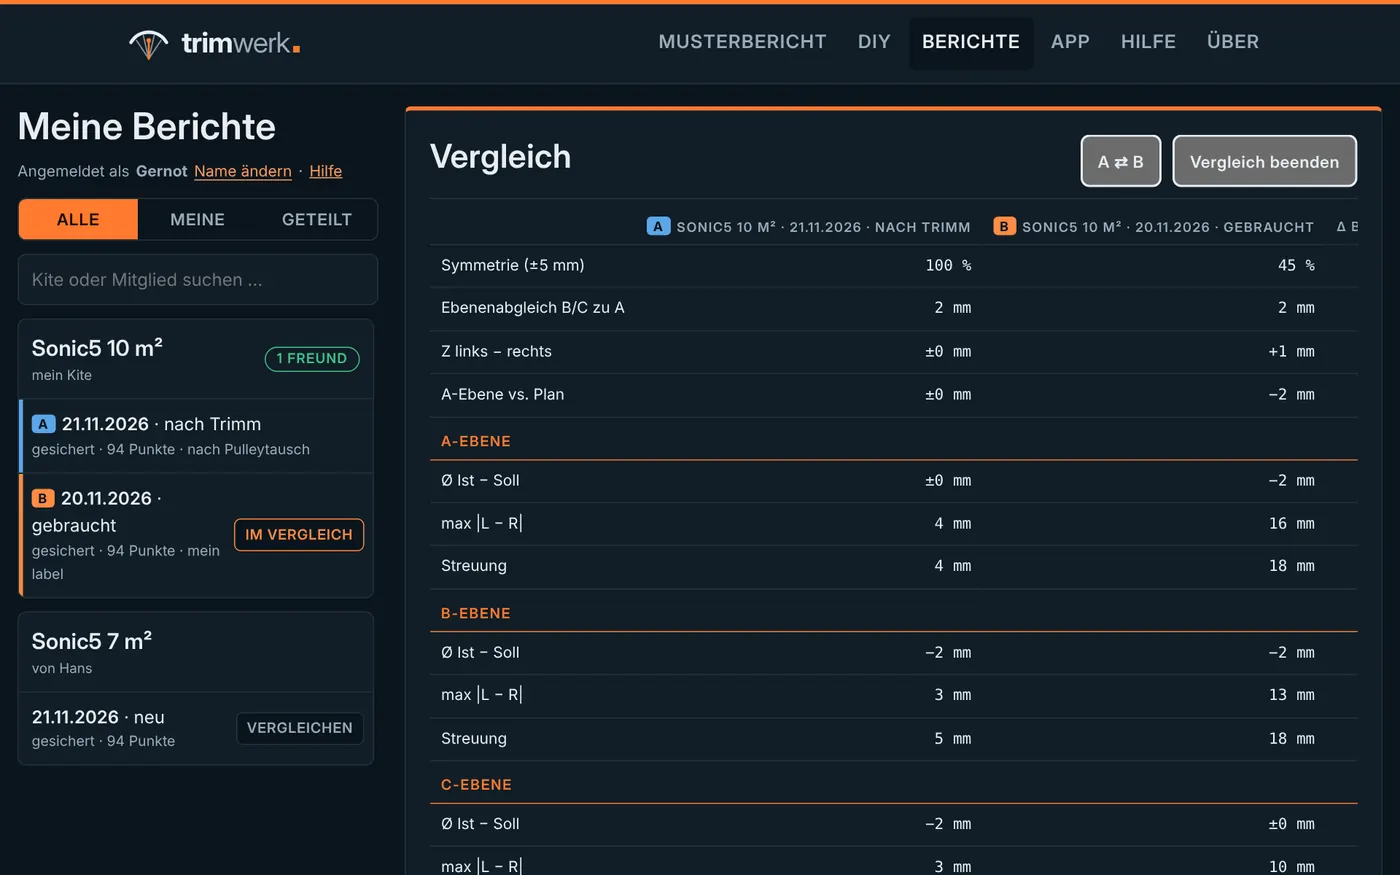
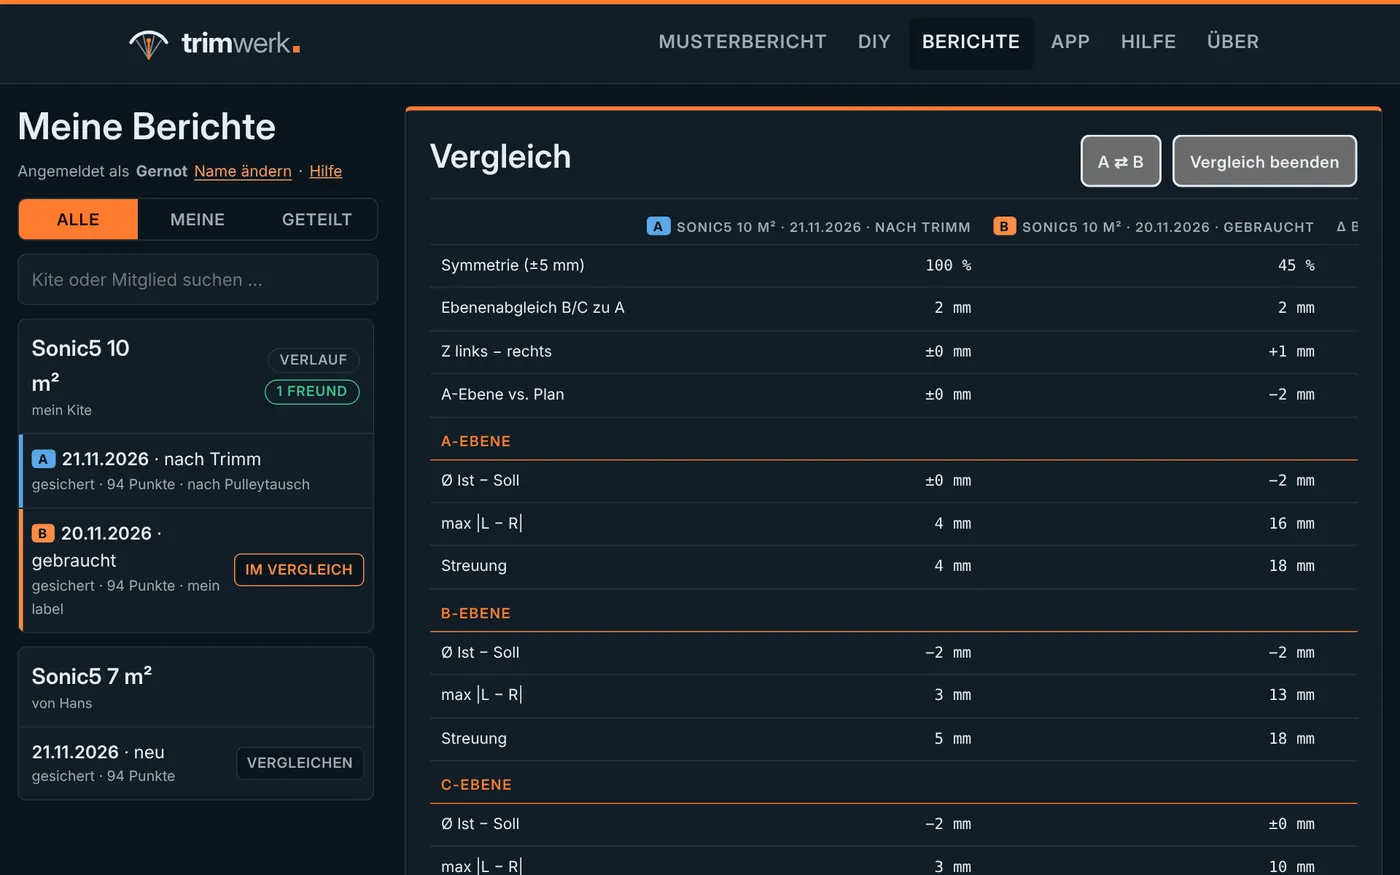
Hilfe: ausführliche Beschreibung zum Vergleich (Tabelle lesen, typische Vergleiche, Tipps); Screenshots aktualisiert
Claude-Session: https://claude.ai/code/session_01SxsauJVYFXbDRSU68pG8U5

diff --git a/hilfe/index.html b/hilfe/index.html
@@ -402,14 +402,42 @@ pre.code{font-family:"IBM Plex Mono",ui-monospace,Menlo,Consolas,monospace;font-
 
       <article class="topic" id="vergleich">
         <h3>Berichte vergleichen</h3>
+        <p>Im Vergleich stehen immer <b>zwei Messreihen</b> nebeneinander: <span class="ui" style="color:#5aa7e8">A</span> (blau) und <span class="ui" style="color:#ff8a42">B</span> (orange). Das können zwei Messungen desselben Kites sein, zwei Größen, zwei Modelle oder dein Kite und der eines Freundes.</p>
+
+        <p><b>So geht’s</b></p>
         <ol>
-          <li>Einen Bericht öffnen – er wird <span class="ui" style="color:#5aa7e8">A</span>.</li>
-          <li>Bei einer zweiten Messreihe auf <span class="ui">Vergleichen</span> tippen – sie wird <span class="ui" style="color:#ff8a42">B</span>.</li>
-          <li>Oben erscheint die Vergleichstabelle mit <b>Δ B − A</b>: grün = B näher am Plan bzw. symmetrischer, rot = schlechter. Darunter beide Berichte nebeneinander (am Handy untereinander).</li>
+          <li>In der Liste auf eine Messreihe tippen – sie öffnet sich als Bericht und wird <b>A</b>.</li>
+          <li>Bei allen anderen Messreihen erscheint rechts <span class="ui">Vergleichen</span>. Bei der zweiten Messreihe antippen – sie wird <b>B</b>. Das geht auch bei einem anderen Kite oder einem geteilten Kite eines Freundes.</li>
+          <li>Oben erscheint die <b>Vergleichstabelle</b>, darunter beide Berichte vollständig nebeneinander (am Handy untereinander).</li>
         </ol>
-        <p>Typische Vergleiche: <b>vor und nach dem Trimm</b>, dein Kite <b>heute und vor einer Saison</b>, oder dein Kite gegen den eines Freundes. Auch <b>andere Größen und Modelle</b> lassen sich vergleichen, weil die Abweichung vom jeweiligen Leinenplan verglichen wird. Beim gleichen Kite gibt es zusätzlich <span class="ui">Alle Leinen vergleichen</span>.</p>
-        <p><span class="ui">A ⇄ B</span> tauscht die Seiten, <span class="ui">Vergleich beenden</span> zeigt wieder nur A. Die Adresse im Browser enthält beide Berichte – du kannst sie als Lesezeichen speichern.</p>
-        <figure class="shot wide"><img src="img/ber_compare.webp" width="1400" height="875" loading="lazy" alt="Zwei Berichte im Vergleich mit Differenztabelle"><figcaption>Vergleich am großen Bildschirm</figcaption></figure>
+
+        <p><b>Die Vergleichstabelle lesen</b></p>
+        <table class="def"><tbody>
+          <tr><th>Spalte A und B</th><td>Die Werte der beiden Messreihen, jeweils als Abweichung vom Leinenplan (Ist − Soll in mm) bzw. in Prozent.</td></tr>
+          <tr><th>Δ B − A</th><td>Der Unterschied: Wert von B minus Wert von A. <span style="color:#3cc487"><b>Grün</b></span> = B ist besser (näher am Plan, symmetrischer, kleinerer Abstand der Ebenen), <span style="color:#ef6a5b"><b>rot</b></span> = B ist schlechter. Ohne Farbe = praktisch gleich (unter 1 mm).</td></tr>
+          <tr><th>Obere Zeilen</th><td>Die vier Kennzahlen: Symmetrie, Ebenenabgleich, Z links − rechts, A-Ebene vs. Plan (siehe <a href="#kennzahlen">Kennzahlen</a>).</td></tr>
+          <tr><th>Je Ebene</th><td>Für A, B, C und Z: Ø Ist − Soll, größte Seitendifferenz |L − R| und Streuung.</td></tr>
+          <tr><th>Alle Leinen vergleichen</th><td>Nur beim selben Kite: jede Leine einzeln mit Soll, Abweichung links/rechts von A und B und Δ des Mittelwerts. Zum Aufklappen unter der Tabelle.</td></tr>
+        </tbody></table>
+        <div class="tip"><b>Welche Reihe ist A, welche B?</b> Am leichtesten zu lesen ist es, wenn <b>A die ältere</b> und <b>B die neuere</b> Messung ist – dann zeigt Δ, was sich seither verändert hat (grün = besser geworden). Falsch herum gewählt? <span class="ui">A ⇄ B</span> tauscht die Seiten.</div>
+
+        <p><b>Typische Vergleiche</b></p>
+        <table class="def"><tbody>
+          <tr><th>Vor und nach dem Trimm</th><td>A = Messung „vor Trimm“, B = „nach Trimm“. Zeigt, ob der Trimm sein Ziel erreicht hat: Ebenenabgleich und Seitendifferenzen sollten deutlich kleiner (grün) sein. Die A-Ebene bleibt gleich – sie wird nicht getrimmt.</td></tr>
+          <tr><th>Derselbe Kite, mehrmals gemessen</th><td>Alle Messreihen stehen untereinander beim Kite, die neueste oben. Wähle die zwei, die dich interessieren – z. B. heute gegen den letzten Trimm, um zu sehen, wie viel sich seither verstellt hat. Für die Entwicklung über alle Messungen gibt es den <a href="#verlauf">Verlauf</a>.</td></tr>
+          <tr><th>Gebrauchtkauf</th><td>Neuer Zustand bzw. Eingangsmessung gegen heute zeigt, wie stark die Leinen gealtert sind (A-Ebene) und ob ein Trimm fällig ist.</td></tr>
+          <tr><th>Andere Größe oder anderes Modell</th><td>Funktioniert auch, weil die Abweichung vom jeweiligen Leinenplan verglichen wird – nicht die Leinenlängen selbst. „Alle Leinen vergleichen“ gibt es dabei nicht, weil die Leinen nicht zusammenpassen.</td></tr>
+          <tr><th>Mit Freunden</th><td>Kites, die Freunde mit dir teilen, kannst du genauso als A oder B wählen – z. B. dein Sonic gegen den deines Freundes nach gleich vielen Saisons.</td></tr>
+        </tbody></table>
+
+        <p><b>Gut zu wissen</b></p>
+        <ul>
+          <li><span class="ui">Vergleich beenden</span> zeigt wieder nur Bericht A. Ein Tipp auf eine andere Messreihe öffnet diese allein.</li>
+          <li>Bei B nochmals <span class="ui">Im Vergleich</span> antippen nimmt B wieder heraus; <span class="ui">Vergleichen</span> bei einer anderen Reihe ersetzt B.</li>
+          <li>Die Adresse im Browser enthält beide Messreihen – als Lesezeichen gespeichert, öffnet sich derselbe Vergleich wieder.</li>
+          <li>Verglichen werden immer zwei Reihen. Mehr als zwei auf einmal zeigt der <a href="#verlauf">Verlauf</a>.</li>
+        </ul>
+        <figure class="shot wide"><img src="img/ber_compare.webp" width="1400" height="875" loading="lazy" alt="Zwei Berichte im Vergleich mit Differenztabelle"><figcaption>Vergleich am großen Bildschirm: oben die Tabelle mit Δ, darunter A und B nebeneinander</figcaption></figure>
       </article>
 
       <article class="topic" id="verlauf">
